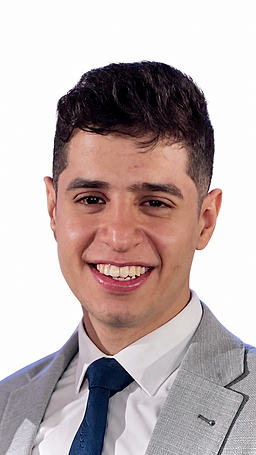
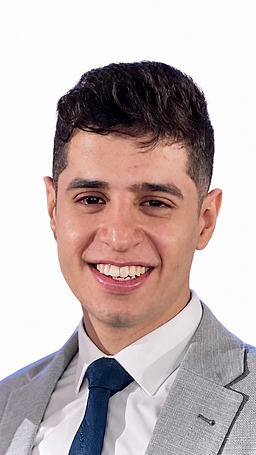
Gently brighten portrait face and shadows

diff --git a/index.html b/index.html
@@ -31,7 +31,7 @@ main{overflow-x:clip}
 @media print{.profile-photo{display:none}.identity{margin:8px 0}}
 </style></head><body>
 <header class="wrap"><nav class="nav" aria-label="Main navigation"><a class="brand" href="#home">Ahmed Eldeeb<span> /</span></a><button class="mobile" id="menu" aria-expanded="false" aria-controls="navlinks">Menu ☰</button><div class="navlinks" id="navlinks"><a href="#experience">Experience</a><a href="#skills">Expertise</a><a href="#education">Education</a><a href="#contact">Contact</a><a class="download" href="Ahmed-Eldeeb-CV.pdf" download>Download CV <span aria-hidden="true">↗</span></a></div></nav></header>
-<main id="home"><div class="wrap"><section class="hero" aria-label="About Ahmed"><div><div class="eyebrow"><span class="dot"></span> Irrigation / Design / Engineering</div><div class="identity"><img class="profile-photo" src="profile.jpg?v=screen-100" alt="Ahmed Eldeeb" width="256" height="455" fetchpriority="high" decoding="async"><h1>Ahmed<br><span>Eldeeb.</span></h1></div><p class="role">Irrigation Engineer</p><p class="intro">Turning irrigation requirements into coordinated, buildable systems. Working in irrigation engineering since 2019, with experience in network design, hydraulic analysis and technical delivery — from tender drawings to site support.</p><div class="actions"><a class="download" href="Ahmed-Eldeeb-CV.pdf" download>Download CV <span aria-hidden="true">↓</span></a><a class="textlink" href="#experience">Explore my experience ↘</a></div><p class="location">AL HARAM, GIZA · EGYPT</p></div><div class="drawing" role="img" aria-label="Illustrative irrigation network with branching pipes and sprinkler coverage patterns"><svg viewBox="0 0 500 500" fill="none" xmlns="http://www.w3.org/2000/svg"><defs><pattern id="grid" width="25" height="25" patternUnits="userSpaceOnUse"><path d="M25 0H0V25" stroke="#b6c7dd" stroke-width=".5"/></pattern><pattern id="dots" width="9" height="9" patternUnits="userSpaceOnUse"><circle cx="2" cy="2" r=".6" fill="#839dbd"/></pattern></defs><rect width="500" height="500" fill="url(#grid)"/><path d="M90 110H422V390H80V178Q80 110 90 110Z" fill="#f5f7fa" fill-opacity=".48" stroke="#aabed7"/><path d="M125 155H385V235H125Z" fill="url(#dots)"/><path d="M125 275H385V355H125Z" fill="url(#dots)"/><g stroke="#6989b0" stroke-width=".9" stroke-dasharray="3 4"><circle cx="155" cy="195" r="53"/><circle cx="255" cy="195" r="53"/><circle cx="355" cy="195" r="53"/><circle cx="155" cy="315" r="53"/><circle cx="255" cy="315" r="53"/><circle cx="355" cy="315" r="53"/></g><g stroke="#365c8b" stroke-width="1.2"><path d="M105 195H355M105 315H355"/><path d="M155 188V202M148 195H162M255 188V202M248 195H262M355 188V202M348 195H362M155 308V322M148 315H162M255 308V322M248 315H262M355 308V322M348 315H362"/></g><path d="M65 420V255H105M105 195V315" stroke="#18385f" stroke-width="4"/><g fill="#eef3f9" stroke="#18385f" stroke-width="1.5"><circle cx="105" cy="255" r="9"/><path d="M105 249V261M99 255H111"/><rect x="54" y="409" width="22" height="22" rx="2"/></g><path d="M145 377H385M145 373V381M385 373V381" stroke="#90a7c4" stroke-width=".8"/><text x="249" y="391" fill="#526d90" font-size="8" font-family="monospace">NETWORK LAYOUT</text><path d="M446 95V65M440 77L446 65L452 77" stroke="#36577e" stroke-width="1.4"/><text x="443" y="56" fill="#36577e" font-size="10" font-family="monospace">N</text><text x="126" y="133" fill="#526d90" font-size="8" font-family="monospace">ZONE 01 / SPRINKLER COVERAGE</text><text x="126" y="272" fill="#526d90" font-size="8" font-family="monospace">ZONE 02</text><text x="122" y="250" fill="#36577e" font-size="8" font-family="monospace">CONTROL VALVE</text></svg><div class="drawlabel"><span>IRRIGATION STUDY / ILLUSTRATION</span><span>AE — 01</span></div></div></section><div class="ribbon"><div><strong>Since 2019</strong><span>Experience in irrigation engineering</span></div><div><strong>Design to delivery</strong><span>Tender · Shop drawings · As-built</span></div><div><strong>Technical leadership</strong><span>Quality · Coordination · Team development</span></div></div>
+<main id="home"><div class="wrap"><section class="hero" aria-label="About Ahmed"><div><div class="eyebrow"><span class="dot"></span> Irrigation / Design / Engineering</div><div class="identity"><img class="profile-photo" src="profile.jpg?v=face-light" alt="Ahmed Eldeeb" width="256" height="455" fetchpriority="high" decoding="async"><h1>Ahmed<br><span>Eldeeb.</span></h1></div><p class="role">Irrigation Engineer</p><p class="intro">Turning irrigation requirements into coordinated, buildable systems. Working in irrigation engineering since 2019, with experience in network design, hydraulic analysis and technical delivery — from tender drawings to site support.</p><div class="actions"><a class="download" href="Ahmed-Eldeeb-CV.pdf" download>Download CV <span aria-hidden="true">↓</span></a><a class="textlink" href="#experience">Explore my experience ↘</a></div><p class="location">AL HARAM, GIZA · EGYPT</p></div><div class="drawing" role="img" aria-label="Illustrative irrigation network with branching pipes and sprinkler coverage patterns"><svg viewBox="0 0 500 500" fill="none" xmlns="http://www.w3.org/2000/svg"><defs><pattern id="grid" width="25" height="25" patternUnits="userSpaceOnUse"><path d="M25 0H0V25" stroke="#b6c7dd" stroke-width=".5"/></pattern><pattern id="dots" width="9" height="9" patternUnits="userSpaceOnUse"><circle cx="2" cy="2" r=".6" fill="#839dbd"/></pattern></defs><rect width="500" height="500" fill="url(#grid)"/><path d="M90 110H422V390H80V178Q80 110 90 110Z" fill="#f5f7fa" fill-opacity=".48" stroke="#aabed7"/><path d="M125 155H385V235H125Z" fill="url(#dots)"/><path d="M125 275H385V355H125Z" fill="url(#dots)"/><g stroke="#6989b0" stroke-width=".9" stroke-dasharray="3 4"><circle cx="155" cy="195" r="53"/><circle cx="255" cy="195" r="53"/><circle cx="355" cy="195" r="53"/><circle cx="155" cy="315" r="53"/><circle cx="255" cy="315" r="53"/><circle cx="355" cy="315" r="53"/></g><g stroke="#365c8b" stroke-width="1.2"><path d="M105 195H355M105 315H355"/><path d="M155 188V202M148 195H162M255 188V202M248 195H262M355 188V202M348 195H362M155 308V322M148 315H162M255 308V322M248 315H262M355 308V322M348 315H362"/></g><path d="M65 420V255H105M105 195V315" stroke="#18385f" stroke-width="4"/><g fill="#eef3f9" stroke="#18385f" stroke-width="1.5"><circle cx="105" cy="255" r="9"/><path d="M105 249V261M99 255H111"/><rect x="54" y="409" width="22" height="22" rx="2"/></g><path d="M145 377H385M145 373V381M385 373V381" stroke="#90a7c4" stroke-width=".8"/><text x="249" y="391" fill="#526d90" font-size="8" font-family="monospace">NETWORK LAYOUT</text><path d="M446 95V65M440 77L446 65L452 77" stroke="#36577e" stroke-width="1.4"/><text x="443" y="56" fill="#36577e" font-size="10" font-family="monospace">N</text><text x="126" y="133" fill="#526d90" font-size="8" font-family="monospace">ZONE 01 / SPRINKLER COVERAGE</text><text x="126" y="272" fill="#526d90" font-size="8" font-family="monospace">ZONE 02</text><text x="122" y="250" fill="#36577e" font-size="8" font-family="monospace">CONTROL VALVE</text></svg><div class="drawlabel"><span>IRRIGATION STUDY / ILLUSTRATION</span><span>AE — 01</span></div></div></section><div class="ribbon"><div><strong>Since 2019</strong><span>Experience in irrigation engineering</span></div><div><strong>Design to delivery</strong><span>Tender · Shop drawings · As-built</span></div><div><strong>Technical leadership</strong><span>Quality · Coordination · Team development</span></div></div>
 <section class="section" id="experience"><div class="sectionhead"><div class="eyebrow">01 / Career</div><div><h2>Experience that<br>connects the details.</h2><p class="sectionintro">Technical office, design and leadership roles across irrigation engineering.</p></div></div><div class="experience">
 <article class="job"><div><h3>Sr. Technical Office Engineer <span class="current">CURRENT</span></h3><p class="company">DME Holding · Heliopolis, Cairo</p></div><div class="date">NOV 2024 — PRESENT</div><ul><li>Prepare irrigation shop drawings, as-built drawings, calculation sheets, schedules and pump calculations.</li><li>Review designs and technical documents for compliance with project specifications and required standards.</li><li>Coordinate with site engineers and other disciplines, providing technical support and resolving site issues.</li><li>Track project progress, technical submissions and compliance with applicable codes and safety standards.</li></ul></article>
 <article class="job"><div><h3>Technical Office Team Leader</h3><p class="company">Typical Design · Maadi, Giza</p></div><div class="date">JUN 2023 — NOV 2024</div><ul><li>Discuss project objectives with clients and review designs, specifications and design criteria before delivery.</li><li>Select irrigation equipment, methods and materials to suit project requirements and water availability.</li><li>Plan team workloads, distribute assignments, and support training, coaching and professional development.</li></ul><details><summary>More responsibilities</summary><ul><li>Define project management processes and prioritize daily tasks to meet delivery targets.</li><li>Resolve operational challenges, conflicts and coordination issues across projects.</li><li>Collaborate with senior leadership on best practices and improvements to team performance.</li></ul></details></article>
